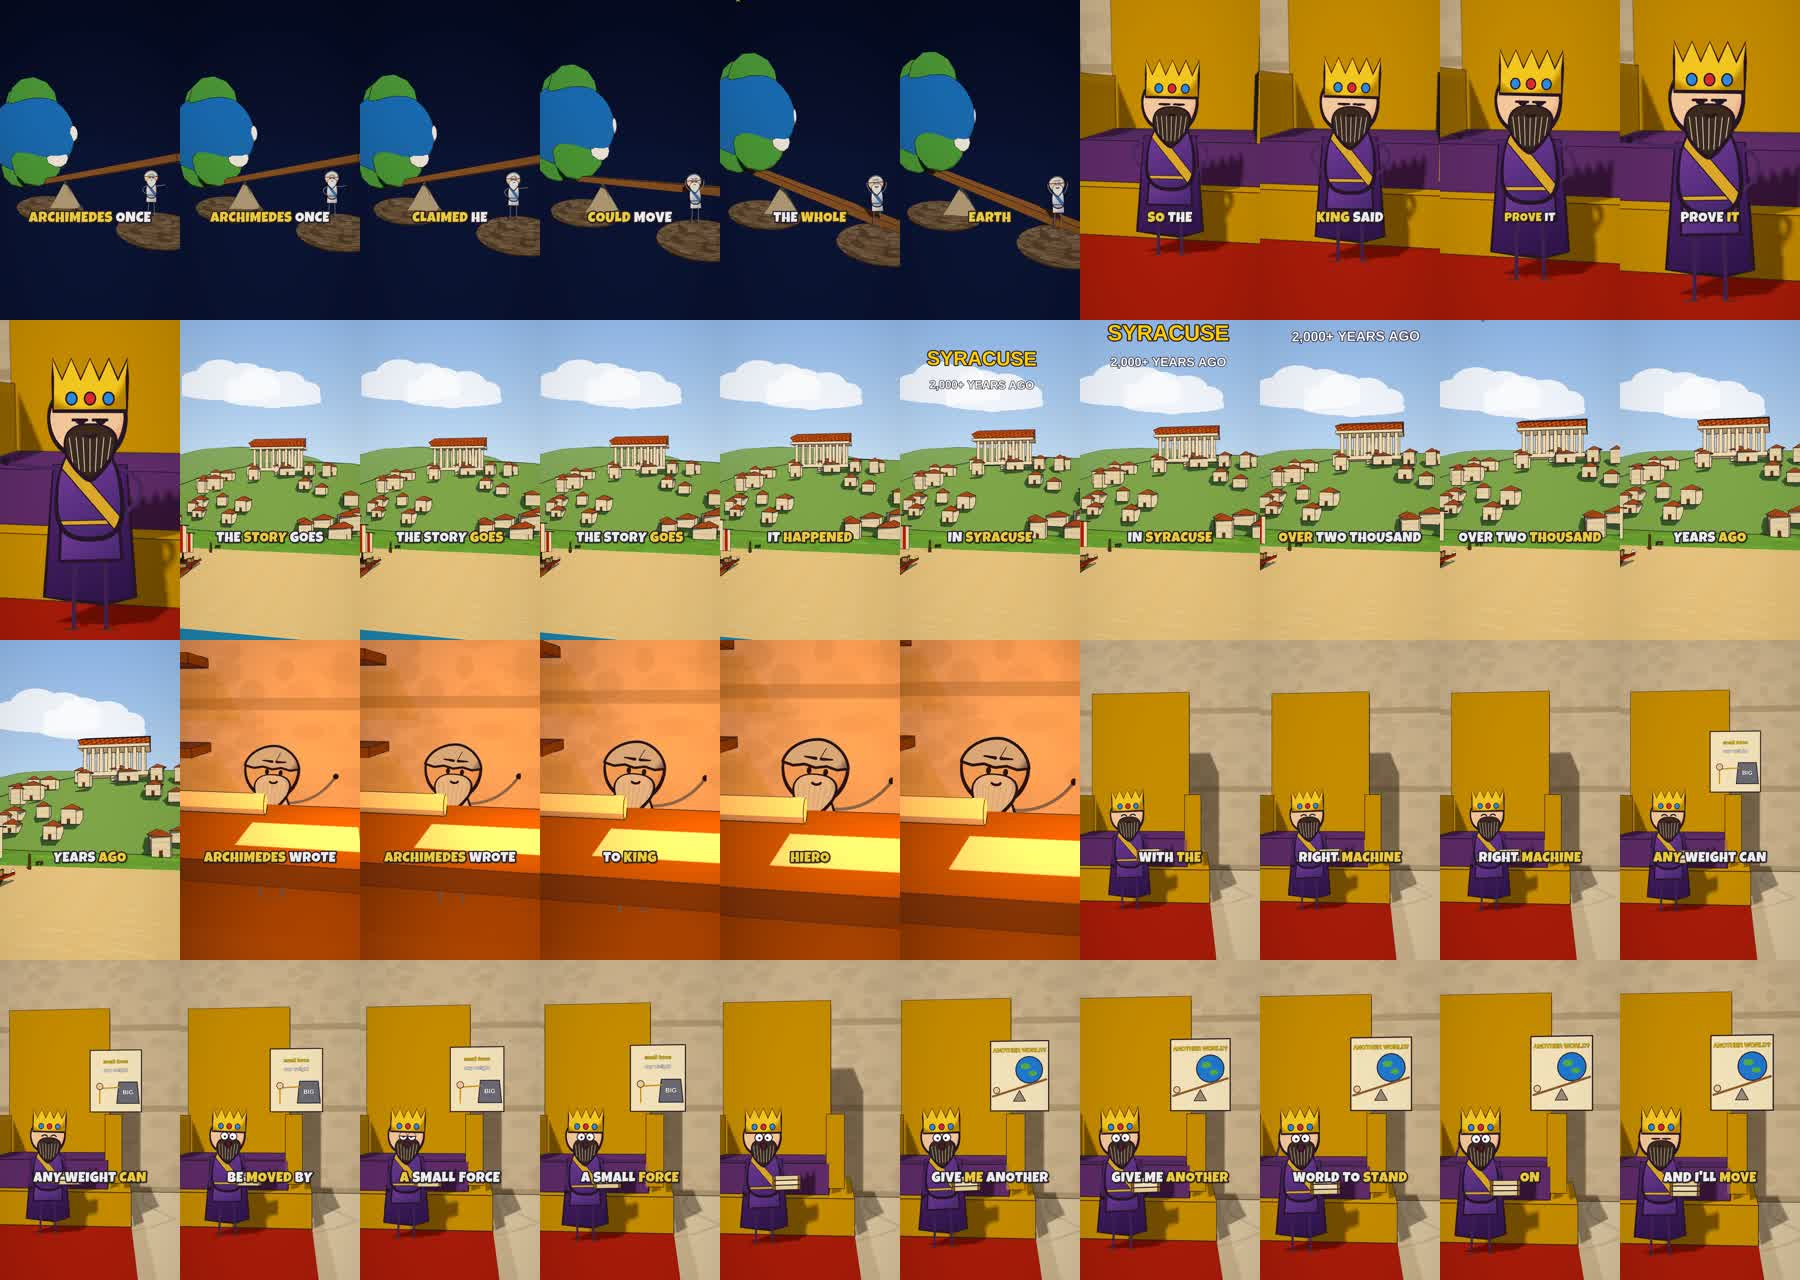
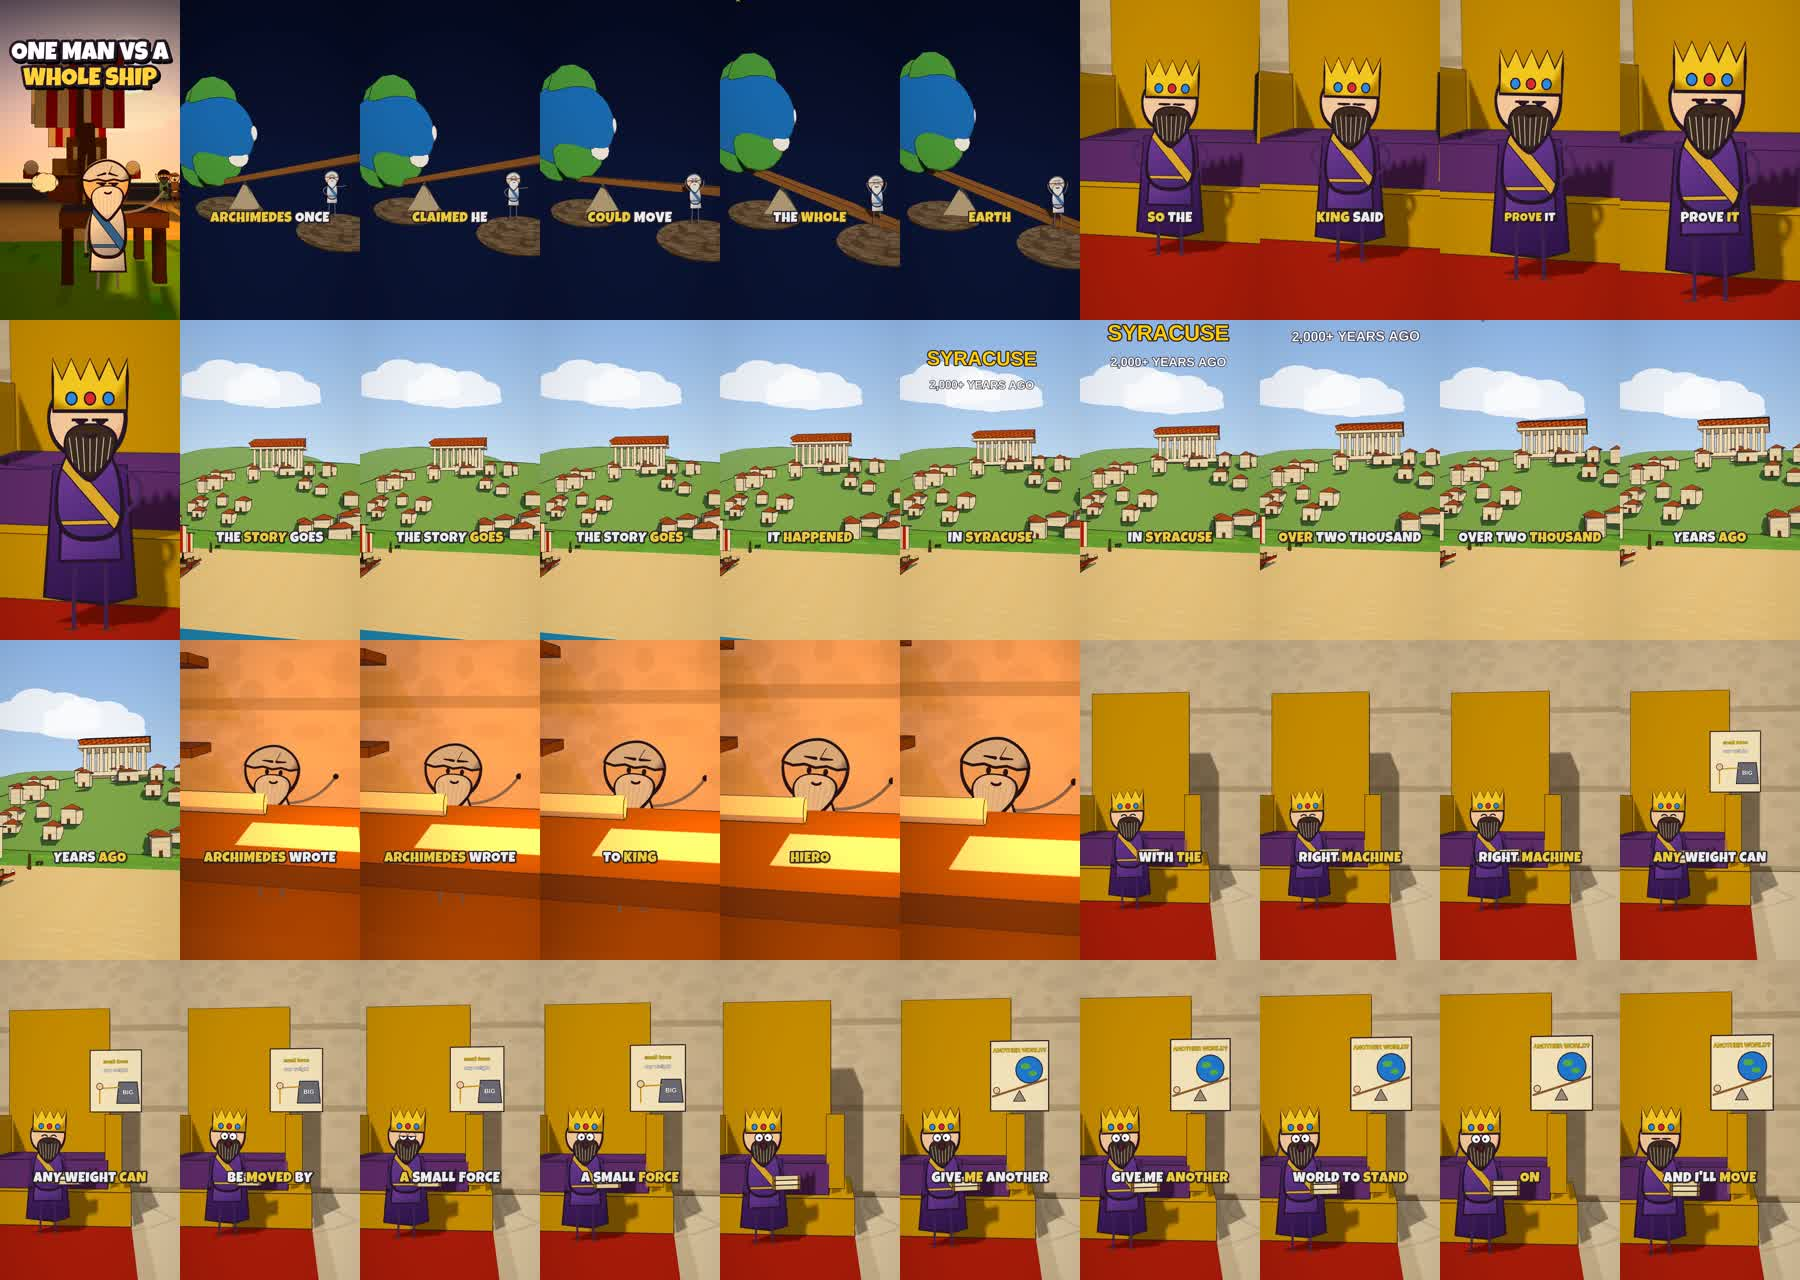
render-bot: archimedes-ship rendered

Changed region(s): [[0.0, 0.0, 0.1244, 0.25]]

diff --git a/projects/archimedes-ship/out/RESULT.md b/projects/archimedes-ship/out/RESULT.md
@@ -1,8 +1,8 @@
 # Render result: The Man Who Pulled a Ship With One Hand
 
-- MP4: https://github.com/nuelyosia-cpt/skill_kit_main/releases/tag/archimedes-ship-r14
-- length: 69.825000 s, size: 40386620 bytes
-- run: https://github.com/nuelyosia-cpt/skill_kit_main/actions/runs/44551424441
+- MP4: https://github.com/nuelyosia-cpt/skill_kit_main/releases/tag/archimedes-ship-r15
+- length: 69.825000 s, size: 40458172 bytes
+- run: https://github.com/nuelyosia-cpt/skill_kit_main/actions/runs/44610105283
 
 ## Mix and QA log
 
@@ -13,7 +13,9 @@ voice  gated RMS  -25.87 dBFS   peak  -9.67 dBFS
 music  gain 0.119   level vs voice -12.00 dB (target -12.0)
 sfx    gain 0.361   level vs voice -8.34 dB (target -8.0)   [peak-capped]   peak -12.77 dBFS vs cap -12.77
 wrote mix_raw.wav  (69.83 s)
+wrote out/thumb_9x16.jpg and out/thumb_16x9.jpg
 wrote ./work/captions.ass: 86 caption chunks, 212 words, 0.15-69.62 s
+thumbnail frame: ON (first 0.33s)
 stream|width=1080|height=1920|r_frame_rate=30/1|
 stream|r_frame_rate=0/0
 format|duration=69.825000
@@ -21,5 +23,4 @@ format|duration=69.825000
     I:         -14.3 LUFS
 captions: ON (212 events)
 out/archimedes-ship.mp4
-wrote out/thumb_9x16.jpg and out/thumb_16x9.jpg
 ```

diff --git a/projects/archimedes-ship/out/STATUS.md b/projects/archimedes-ship/out/STATUS.md
@@ -2,6 +2,6 @@
 
 - project: archimedes-ship
 - job: finish
-- commit: 91a7c261f1ea0dfe85aafa3ff1d862d290df7fa7
-- run: https://github.com/nuelyosia-cpt/skill_kit_main/actions/runs/44551424441
-- time (UTC): 2026-11-19 15:29:46
+- commit: 321b5ce22e5a22983e71101b3d78072661b60596
+- run: https://github.com/nuelyosia-cpt/skill_kit_main/actions/runs/44610105283
+- time (UTC): 2026-11-19 20:58:29
